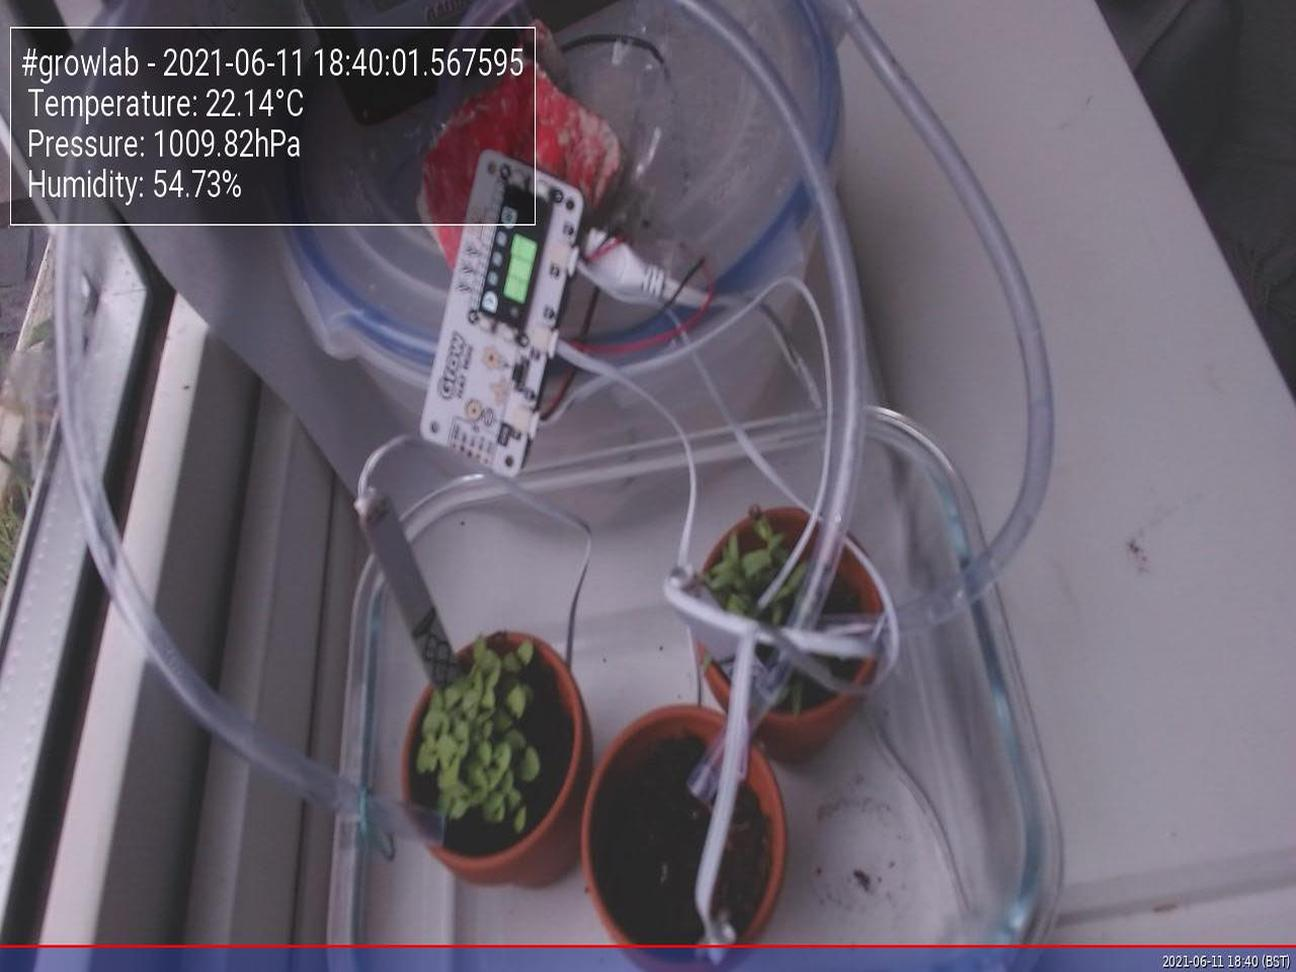
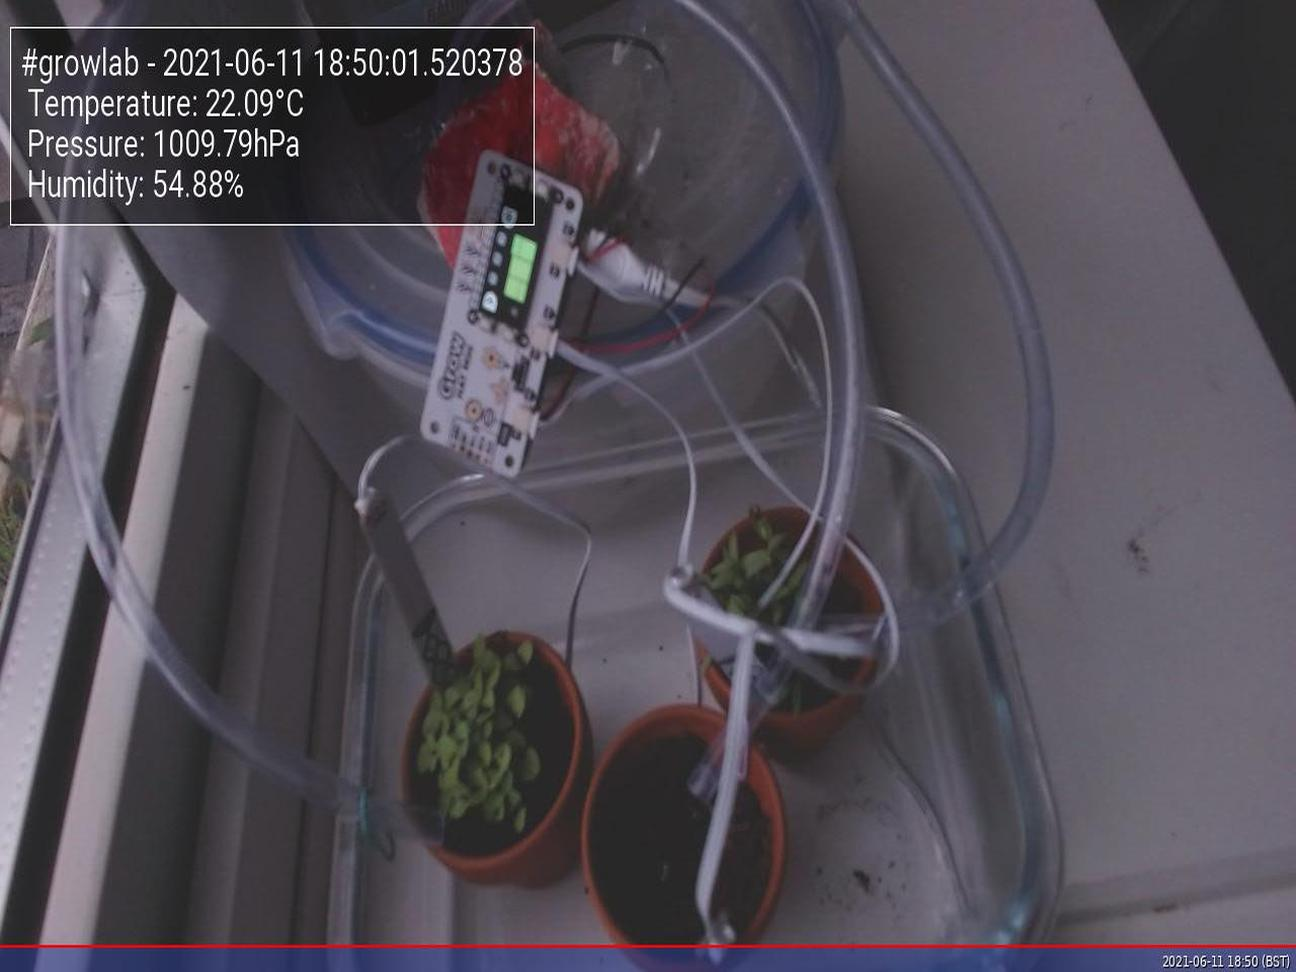
Update images at Fri 11 Jun 18:50:05 BST 2021

diff --git a/app/docs/index.html b/app/docs/index.html
@@ -47,19 +47,19 @@
                         <tbody>
                             <tr>
                                 <td>Time</td>
-                                <td>2021-06-11 18:40:01.567595</td>
+                                <td>2021-06-11 18:50:01.520378</td>
                             </tr>
                             <tr>
                                 <td>Temperature</td>
-                                <td>22.14°C</td>
+                                <td>22.09°C</td>
                             </tr>
                             <tr>
                                 <td>Humidity</td>
-                                <td>54.73%</td>
+                                <td>54.88%</td>
                             </tr>
                             <tr>
                                 <td>Pressure</td>
-                                <td>1009.82hPa</td>
+                                <td>1009.79hPa</td>
                             </tr>
                         </tbody>
                     </table>
@@ -67,7 +67,7 @@
 
                 <h5>Latest image</h5>
                 <div style="width: 85%;">
-                            <img class="figure-img img-fluid rounded" src="./preview.jpg?uid=1623433205.3111134">
+                            <img class="figure-img img-fluid rounded" src="./preview.jpg?uid=1623433805.2567527">
                 </div>
             </div>
         </div>
